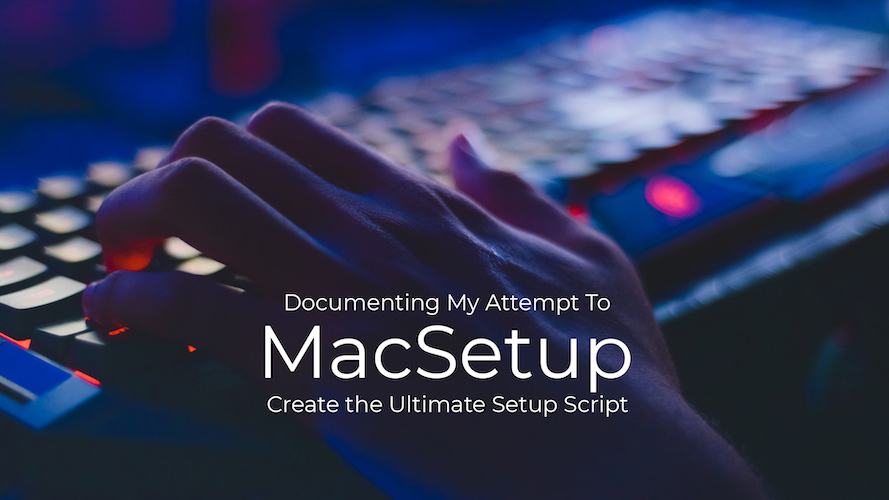
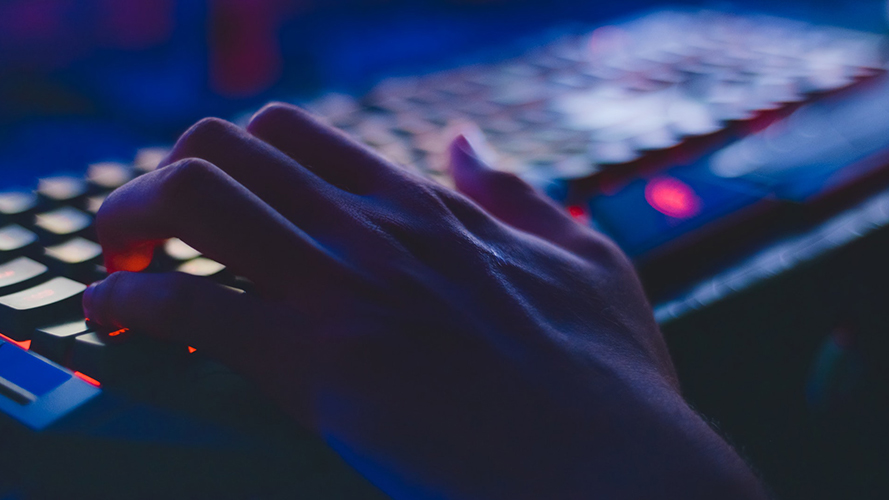
Updaing macSetup image & fixing header.

diff --git a/downloads.html b/downloads.html
@@ -23,8 +23,8 @@
   <style>
    header {
      background: linear-gradient(to right, #aa076b, #61045f);
-     padding-top: 9.5em;
-     padding-bottom: 6em;
+     padding-top: 12.5em;
+     padding-bottom: 9em;
      height: 100%;
      background-attachment: fixed;
      background-position: center;
@@ -34,7 +34,7 @@
    }
    @media only screen and (max-width: 800px) {
      header {
-       padding: 7vh 0vw;
+       padding: 30vh 0vw;
        background-attachment: scroll;
        height: auto;
        width: 100%;
